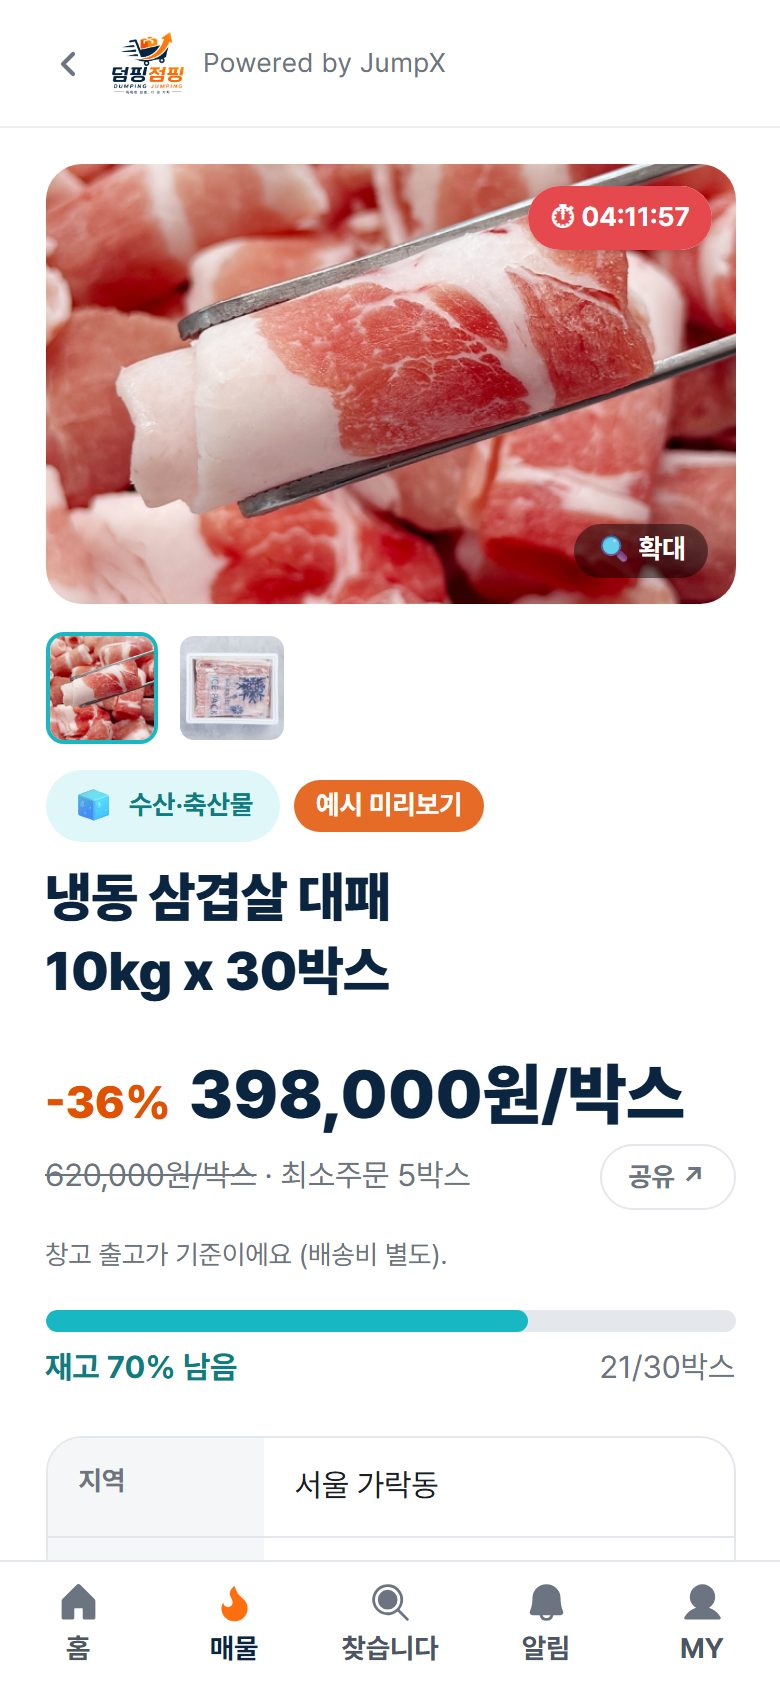
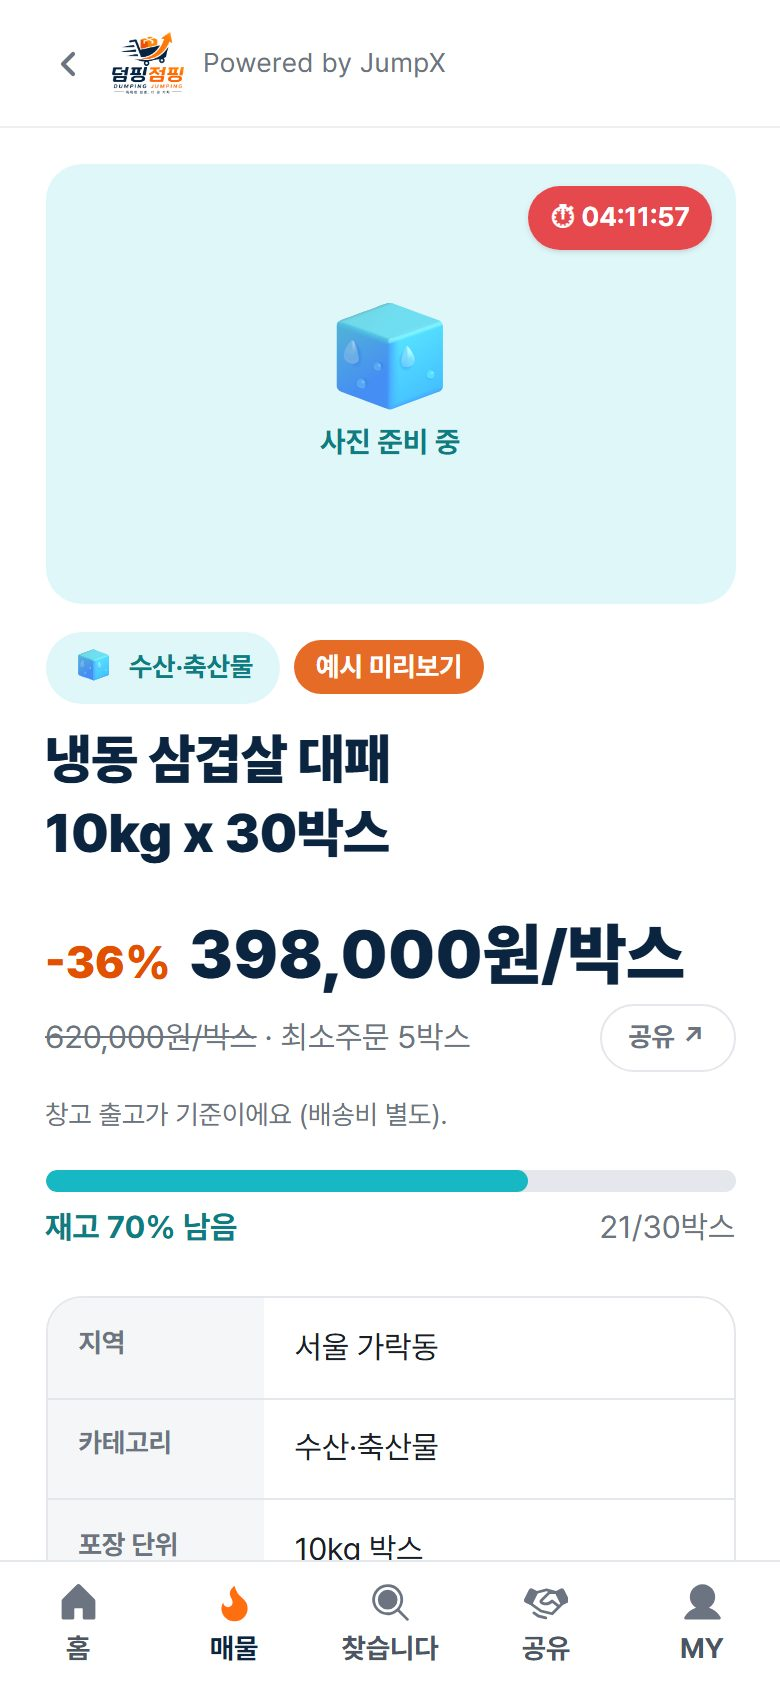
/en 로드맵 3단계·회사명 확정 + 예시 사진 끄고 공개(EXAMPLE_MEDIA_ENABLED=false), 캡처 재촬영
- /en 로드맵: Now DumpingJumping / Next JumpX Marketplace(instant purchase·auctions·reverse auctions·
  group buying, engine already built on the JumpX platform) / Planned Logistics·Data — JumpingBid 항목·메모 삭제
- 회사명 "JumpX Inc." 확정
- EXAMPLE_MEDIA_ENABLED = false: 출처 미확인 예시 사진·영상 비공개 (대표 사진 받으면 교체 후 true)
- /en 화면 캡처(회원 홈·매물 상세) 재촬영: 예시 사진 없이 "사진 준비 중" 상태

diff --git a/src/app/en/page.tsx b/src/app/en/page.tsx
@@ -76,9 +76,11 @@ const SCREENS = [
 
 const ROADMAP = [
   { stage: "Now", name: "DumpingJumping", body: "Lead discovery — surplus listings and instant buyer alerts." },
-  { stage: "Next", name: "JumpX Marketplace", body: "A B2B marketplace where discovered deals become orders." },
-  // 영문 표기(JumpingBid / JumpingBead)는 확정 전 — 확정되면 name만 바꿀 것
-  { stage: "Built", name: "JumpingBid", body: "Auction, reverse-auction and group-buy engine already built on the JumpX platform; opening to users next." },
+  {
+    stage: "Next",
+    name: "JumpX Marketplace",
+    body: "A B2B marketplace where discovered deals become orders — instant purchase, auctions, reverse auctions and group buying (engine already built on the JumpX platform).",
+  },
   { stage: "Planned", name: "Logistics / Data", body: "Freight booking and price data built on accumulated trade records." },
 ];
 
@@ -221,7 +223,7 @@ export default function EnglishPage() {
         {/* Roadmap */}
         <section style={{ padding: "56px 0 8px" }}>
           <SectionTitle eyebrow="Roadmap">From lead discovery to a full B2B surplus platform.</SectionTitle>
-          <ol className="grid gap-3 mt-6 md:grid-cols-4">
+          <ol className="grid gap-3 mt-6 md:grid-cols-3">
             {ROADMAP.map((r) => (
               <li
                 key={r.name}
@@ -233,8 +235,8 @@ export default function EnglishPage() {
                   style={{
                     fontSize: rem(14),
                     padding: "3px 10px",
-                    background: r.stage === "Now" ? ORANGE : r.stage === "Built" ? NAVY : "#EEF3FA",
-                    color: r.stage === "Now" || r.stage === "Built" ? "#fff" : NAVY,
+                    background: r.stage === "Now" ? ORANGE : "#EEF3FA",
+                    color: r.stage === "Now" ? "#fff" : NAVY,
                   }}
                 >
                   {r.stage}
@@ -253,7 +255,7 @@ export default function EnglishPage() {
             <dl className="mt-4 grid gap-2" style={{ fontSize: rem(17) }}>
               <div className="flex flex-wrap gap-x-3">
                 <dt style={{ color: "rgba(255,255,255,.7)" }}>Company</dt>
-                <dd className="font-bold m-0">JumpX</dd>
+                <dd className="font-bold m-0">JumpX Inc.</dd>
               </div>
               <div className="flex flex-wrap gap-x-3">
                 <dt style={{ color: "rgba(255,255,255,.7)" }}>Email</dt>

diff --git a/src/lib/features.ts b/src/lib/features.ts
@@ -12,4 +12,5 @@ export const QUOTES_ENABLED = false;
 // 예시 매물(mockData) 사진·영상 — 2026-09-29. 앞 4건은 저장소 사진(public/images/mock),
 // 나머지는 loremflickr 외부 무작위 이미지라 출처·사용권이 확인되지 않음. 공개 전 확인이 안 되면
 // false로 → 예시 카드·예시 상세가 전부 "사진 준비 중"(NoPhotoPlaceholder)으로 표시.
-export const EXAMPLE_MEDIA_ENABLED = true;
+// 2026-09-29: 출처 미확인이라 false로 공개. 대표 사진을 받으면 교체 후 true로.
+export const EXAMPLE_MEDIA_ENABLED = false;
